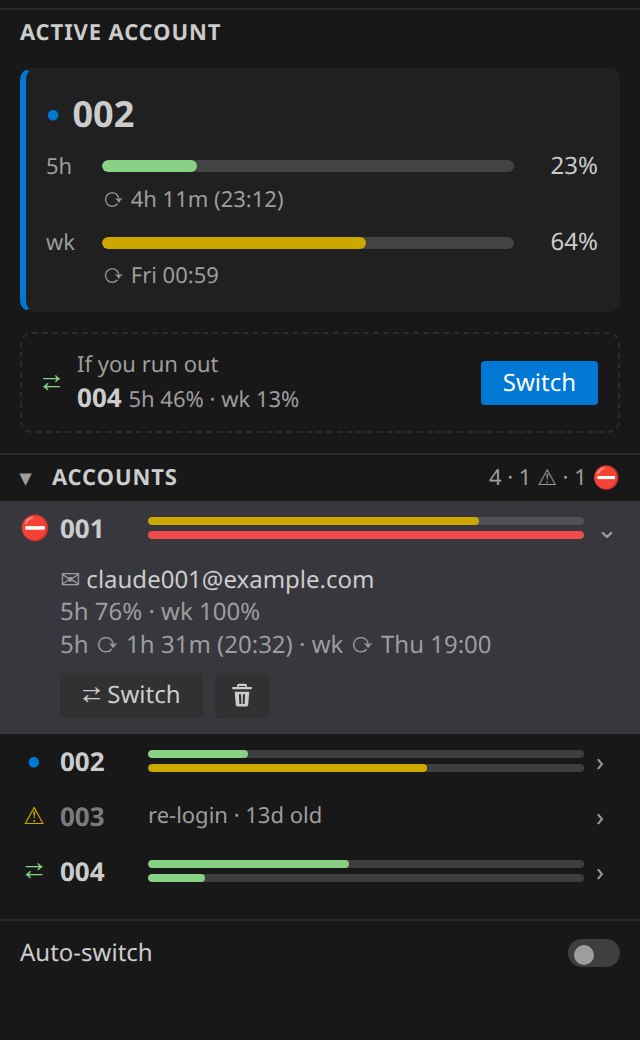
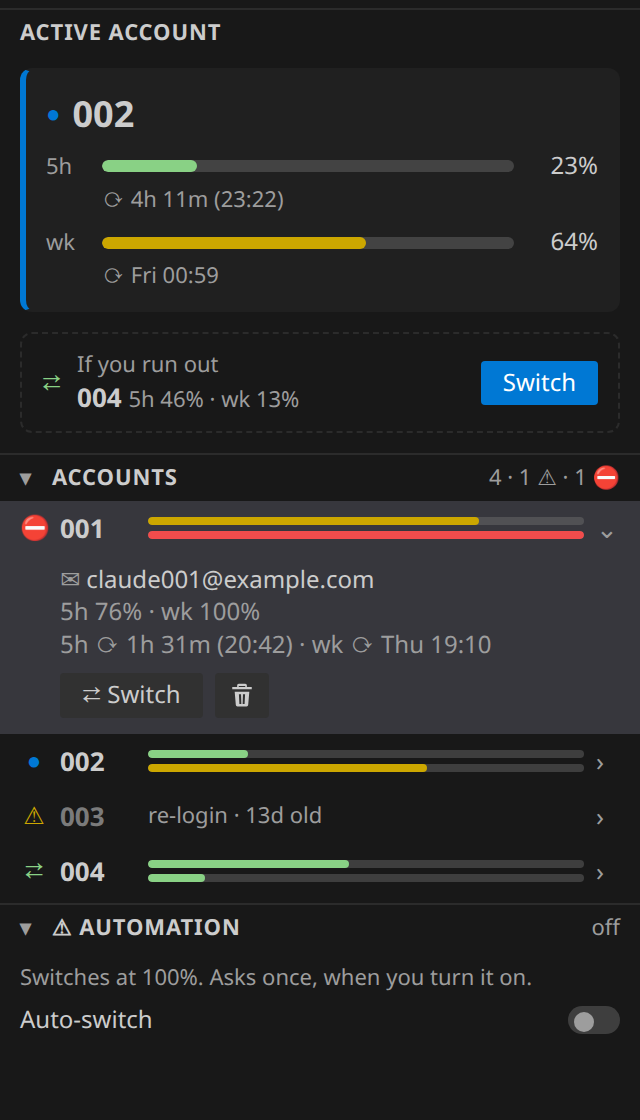
feat(vscode): automation section, safer auto-switch, shorter status bar
Auto-switch moves into a collapsed Automation section with a visible
one-line explanation. Turning it on asks once in a modal that states the
effect (G7); the setting is machine-scoped. The status bar becomes
"● <you> <5h>%/<wk>% · ⇄ <next-best>" and no longer counts stale or dead
accounts as free; its tooltip lists each account with its own data age.
Version 1.2.0, .vsix rebuilt, screenshots re-rendered.

diff --git a/tests/vscode_extension_test.js b/tests/vscode_extension_test.js
@@ -42,22 +42,25 @@ fs.chmodSync(ccswitch, 0o755);
 
 // --- stub vscode ----------------------------------------------------------------------------------
 const said = [];
+const saidOpts = [];
+const updates = [];
 let answer;
 const vscode = {
     window: {
-        showWarningMessage: async (m, o, ...b) => { said.push(m); return answer; },
+        showWarningMessage: async (m, o, ...b) => { said.push(m); saidOpts.push(o); return answer; },
         showInformationMessage: async (m, o, ...b) => { said.push(m); return typeof o === 'object' ? answer : undefined; },
         showErrorMessage: (m) => said.push('ERROR ' + m),
         createTerminal: () => ({ show() {}, sendText(t) { said.push('TERMINAL ' + t); } }),
     },
-    workspace: { getConfiguration: () => ({ get: (k) => cfg[k] }) },
+    workspace: { getConfiguration: () => ({ get: (k) => cfg[k], update: async (k, v, t) => { updates.push([k, v, t]); } }) },
+    ConfigurationTarget: { Global: 1 },
     commands: {}, env: {},
 };
 const orig = Module._load;
 Module._load = function (r, ...a) { return r === 'vscode' ? vscode : orig.call(this, r, ...a); };
 const file = path.join(__dirname, '..', 'vscode', 'extension.js');
 const m = new Module(file); m.filename = file; m.paths = Module._nodeModulePaths(path.dirname(file));
-m._compile(fs.readFileSync(file, 'utf8') + '\n;Object.assign(module.exports, { readSnapshot, isFresh, qualifies, capacity, parseUsageJson, mergeLogins, readAccounts, activeLabel, autoTarget, checkLogins, relogin, switchSeat, saveSeat, esc, webviewHtml, panelData, ageText });', file);
+m._compile(fs.readFileSync(file, 'utf8') + '\n;Object.assign(module.exports, { readSnapshot, isFresh, qualifies, capacity, parseUsageJson, mergeLogins, readAccounts, activeLabel, autoTarget, checkLogins, relogin, switchSeat, saveSeat, esc, webviewHtml, panelData, ageText, setAutoSwitch, AUTO_DETAIL, statusText, statusTooltip });', file);
 const e = m.exports;
 const calls = () => (fs.existsSync(LOG) ? fs.readFileSync(LOG, 'utf8').trim().split('\n') : []);
 
@@ -76,7 +79,7 @@ const calls = () => (fs.existsSync(LOG) ? fs.readFileSync(LOG, 'utf8').trim().sp
         assert.strictEqual(by('work').five_pct, 100);
         assert.strictEqual(by('spare').five_pct, null);
         assert.strictEqual(cap.best.label, 'personal');
-        assert.strictEqual(cap.free, 3);
+        assert.ok(!('free' in cap) && !('total' in cap), 'the free count is gone: it counted stale and dead accounts');
         assert.strictEqual(cap.activeFresh, true);
         assert.strictEqual(e.ageText(by('dead').fetched_at, now), '13d old');
         const pd = e.panelData(accounts, cap, { now, installed: true, auto: false });
@@ -316,7 +319,7 @@ const calls = () => (fs.existsSync(LOG) ? fs.readFileSync(LOG, 'utf8').trim().sp
     const WV = path.join(__dirname, '..', 'vscode', 'webview');
     const readWv = (f) => fs.readFileSync(path.join(WV, f), 'utf8');
     const panel = () => { const ctx = { esc: e.esc }; require('vm').runInNewContext(readWv('panel.js'), ctx); return ctx; };
-    const ui = (over = {}) => ({ accountsOpen: true, openRow: null, ...over });
+    const ui = (over = {}) => ({ accountsOpen: true, automationOpen: false, openRow: null, ...over });
 
     await check('B4 no hard-coded colour in the panel', () => {
         const src = readWv('panel.css') + readWv('panel.js') + e.webviewHtml();
@@ -383,10 +386,122 @@ const calls = () => (fs.existsSync(LOG) ? fs.readFileSync(LOG, 'utf8').trim().sp
         assert.ok(open.includes('data-a="delete" data-l="001"'));
     });
 
-    await check('render: auto-switch toggle row says its state', () => {
+    await check('render: auto-switch toggle says its state', () => {
+        const p = panel(), open = ui({ automationOpen: true });
+        assert.match(p.render(pdFour(), open), /role="switch"[^>]*aria-checked="false"/);
+        assert.match(p.render({ ...pdFour(), auto: true }, open), /role="switch"[^>]*aria-checked="true"/);
+        assert.ok(p.render({ ...pdFour(), auto: true }, ui()).includes('>on<'), 'the collapsed header still shows the state');
+    });
+
+    await check('render: Automation is collapsed by default and holds the toggle and a visible line', () => {
         const p = panel();
-        assert.match(p.render(pdFour(), ui()), /role="switch"[^>]*aria-checked="false"/);
-        assert.match(p.render({ ...pdFour(), auto: true }, ui()), /role="switch"[^>]*aria-checked="true"/);
+        const shut = p.render(pdFour(), ui());
+        assert.ok(!shut.includes('role="switch"'));
+        assert.ok(shut.includes('Automation') && /data-a="automation"[^>]*aria-expanded="false"/.test(shut));
+        const open = p.render(pdFour(), ui({ automationOpen: true }));
+        assert.strictEqual(open.split('role="switch"').length - 1, 1);
+        assert.match(open, /role="switch"[^>]*aria-checked="false"/);
+        assert.ok(open.includes('Switches at 100%.'), 'one visible line, not only a tooltip');
+        assert.ok(!p.render({ ...pdFour(), installed: false }, ui({ automationOpen: true })).includes('role="switch"'), 'no ccswitch, no toggle');
+    });
+
+    // --- G7: turning auto-switch on asks once ----------------------------------------------------------
+    await check('G7 turning auto-switch on asks once, in a modal', async () => {
+        said.length = saidOpts.length = updates.length = 0;
+        answer = undefined;
+        assert.strictEqual(await e.setAutoSwitch(true), false);
+        assert.deepStrictEqual(updates, []);
+        assert.strictEqual(said.length, 1);
+        assert.strictEqual(saidOpts[0].modal, true);
+        assert.strictEqual(said[0], 'Turn on auto-switch?');
+        answer = 'Turn on';
+        assert.strictEqual(await e.setAutoSwitch(true), true);
+        assert.deepStrictEqual(updates, [['autoSwitch', true, 1]]);
+        answer = undefined;
+    });
+
+    await check('G7 turning auto-switch off needs no dialog', async () => {
+        said.length = saidOpts.length = updates.length = 0;
+        assert.strictEqual(await e.setAutoSwitch(false), true);
+        assert.strictEqual(said.length, 0);
+        assert.deepStrictEqual(updates, [['autoSwitch', false, 1]]);
+    });
+
+    await check('G7 the dialog states the effect', () => {
+        for (const re of [/every new Claude Code session/, /without asking/, /100%/, /restart/i, /this machine/]) assert.match(e.AUTO_DETAIL, re);
+    });
+
+    await check('autoSwitch setting is machine-scoped and its description says what it does', () => {
+        const p = require('../vscode/package.json').contributes.configuration.properties['claudeUsage.autoSwitch'];
+        assert.strictEqual(p.scope, 'machine');
+        assert.ok(!('description' in p), 'markdownDescription replaces description');
+        assert.match(p.markdownDescription, /without asking/);
+        assert.match(p.markdownDescription, /100%/);
+    });
+
+    await check('the toggle command and the panel both go through setAutoSwitch', () => {
+        const src = fs.readFileSync(file, 'utf8');
+        assert.ok(!/update\('autoSwitch'/.test(src.replace(/async function setAutoSwitch[\s\S]*?\n}\n/, '')), 'one writer of the setting');
+    });
+
+    // --- status bar text ---------------------------------------------------------------------------------
+    const sb = (a, you, relogin = [], over = {}) => ({ ...capOf(a, you, relogin), ...over });
+    const sbAcc = () => [acct('work', 100, 40, now - 60), acct('personal', 10, 5, now - 30)];
+
+    await check('statusText: active and next-best', () => {
+        const a = sbAcc();
+        assert.strictEqual(e.statusText(sb(a, 'work'), a, false), '● work 100%/40% · ⇄ personal');
+    });
+
+    await check('statusText: nothing qualifies (Review Focus 1)', () => {
+        const a = [acct('work', 100, 40, now - 60), acct('old', 5, 5, now - 7200), acct('dead', 5, 5, now - 60)];
+        const t = e.statusText(sb(a, 'work', ['dead']), a, false);
+        assert.ok(t.endsWith('· ⇄ none'), t);
+        assert.ok(!/free/.test(t), 'stale and dead accounts are not counted as free');
+    });
+
+    await check('statusText: stale active data and auto on', () => {
+        const a = [acct('work', 100, 40, now - 7200), acct('personal', 10, 5, now - 30)];
+        const t = e.statusText(sb(a, 'work'), a, true);
+        assert.ok(t.startsWith('$(sync) ● work'), t);
+        assert.ok(t.includes('100%/40% ◷'), t);
+    });
+
+    await check('statusText: no active account, and a missing window', () => {
+        const a = sbAcc();
+        assert.strictEqual(e.statusText(sb(a, null), a, false), '● none');
+        assert.strictEqual(e.statusText(sb(a, null), a, true), '$(sync) ● none');
+        const h = [acct('half', null, 30, now - 60)];
+        assert.strictEqual(e.statusText(sb(h, 'half'), h, false), '● half –/30% · ⇄ none');
+    });
+
+    await check('statusText: an active account with no data at all', () => {
+        const a = sbAcc();
+        const t = e.statusText(sb(a, 'ghost'), a, false);  // not saved, no row
+        assert.strictEqual(t, '● ghost –/– ◷ · ⇄ personal');
+    });
+
+    await check('statusTooltip lists every account', () => {
+        const a = [...sbAcc(), acct('old', 5, 5, now - 7200), acct('dead', 5, 5, now - 13 * 86400)];
+        const tip = e.statusTooltip(sb(a, 'work', ['dead']), a, false);
+        const lines = tip.split('\n');
+        assert.strictEqual(lines.length, a.length + 1);
+        assert.strictEqual(lines[0], 'Auto-switch: off');
+        assert.strictEqual(lines[1], 'work: 5h 100%, wk 40% · active');
+        assert.strictEqual(lines[2], 'personal: 5h 10%, wk 5%');
+        assert.strictEqual(lines[3], 'old: 5h 5%, wk 5% · data 2h old');
+        assert.strictEqual(lines[4], 'dead: 5h 5%, wk 5% · re-login · data 13d old');
+        assert.strictEqual(e.statusTooltip(sb(a, 'work'), a, true).split('\n')[0], 'Auto-switch: ON');
+    });
+
+    await check('statusTooltip says the truth about the active account\'s data (fresh, stale, none)', () => {
+        const a = [acct('work', 100, 40, now - 60), acct('old', 5, 5, now - 7200)];
+        assert.strictEqual(e.statusTooltip(sb(a, 'work'), a, false).split('\n')[1], 'work: 5h 100%, wk 40% · active', 'fresh active: no age claim');
+        assert.ok(e.statusTooltip(sb(a, 'old'), a, false).includes('old: 5h 5%, wk 5% · data 2h old · active'));
+        const ghost = e.statusTooltip(sb(a, 'ghost'), a, false);  // active, unsaved, in no list
+        assert.strictEqual(ghost.split('\n').length, a.length + 2);
+        assert.ok(ghost.includes('ghost: 5h –, wk – · no data · active'), ghost);
+        assert.ok(!/over 30 min/.test(fs.readFileSync(file, 'utf8')), 'the old unconditional claim is gone');
     });
 
     await check('the vendored popup is gone', () => {

diff --git a/vscode/extension.js b/vscode/extension.js
@@ -70,12 +70,12 @@ function resetText(epoch) {
     return `⟳ ${DAYS[d.getDay()]} ${clock}`;
 }
 
-// Load = max(5h, weekly) (the CtrlA hub's rules); free = load < 50%; best = lowest load among qualifying accounts.
+// Load = max(5h, weekly) (the CtrlA hub's rules); best = lowest load among qualifying accounts.
 function capacity(u, ctx) {
     const seats = u.accounts.filter((a) => (a.provider || 'claude') === 'claude' && (a.five_pct != null || a.week_pct != null));
     const best = seats.filter((a) => qualifies(a, ctx)).sort((x, y) => loadOf(x) - loadOf(y))[0];
     const fresh = Object.fromEntries(seats.map((a) => [a.label, isFresh(a, ctx.now)]));
-    return { you: ctx.you, free: seats.filter((a) => loadOf(a) < 50).length, total: seats.length,
+    return { you: ctx.you,
         best: best ? { label: best.label, five: best.five_pct, week: best.week_pct } : null,
         loads: Object.fromEntries(seats.map((a) => [a.label, loadOf(a)])), fresh,
         activeFresh: !!ctx.you && fresh[ctx.you] === true };
@@ -86,6 +86,28 @@ function capacity(u, ctx) {
 function autoTarget(cap) {
     if (!cap.you || !cap.activeFresh || !(cap.loads[cap.you] >= 100) || !cap.best) return null;
     return cap.best.label;
+}
+
+// Status bar: `● <you> <5h>%/<wk>% · ⇄ <next-best>`. ◷ marks data that is not fresh; $(sync) marks auto-switch on.
+// Only the best qualifying account is named, so a stale or dead account is never counted as available.
+const pctOr = (v) => (v == null ? '–' : Math.round(v) + '%');
+function statusText(cap, accounts, auto) {
+    const lead = auto ? '$(sync) ' : '';
+    if (!cap.you) return lead + '● none';
+    const me = accounts.find((a) => a.label === cap.you) || {};
+    return `${lead}● ${cap.you} ${pctOr(me.five_pct)}/${pctOr(me.week_pct)}${cap.activeFresh ? '' : ' ◷'} · ⇄ ${cap.best ? cap.best.label : 'none'}`;
+}
+
+// Tooltip: the auto-switch state, then one line per account (an active account with no row gets one too).
+function statusTooltip(cap, accounts, auto, now = Date.now() / 1000) {
+    const list = cap.you && !accounts.some((a) => a.label === cap.you) ? [...accounts, { label: cap.you, fetched_at: null, state: 'no data yet' }] : accounts;
+    const dead = new Set(cap.relogin || []);
+    const lines = list.map((a) => {
+        const age = isFresh(a, now) ? null : ageText(a.fetched_at, now);
+        return `${a.label}: 5h ${pctOr(a.five_pct)}, wk ${pctOr(a.week_pct)}` + (dead.has(a.label) ? ' · re-login' : '')
+            + (age === 'no data' ? ' · no data' : age ? ` · data ${age}` : !isFresh(a, now) ? ` · ${a.state}` : '') + (a.label === cap.you ? ' · active' : '');
+    });
+    return [`Auto-switch: ${auto ? 'ON' : 'off'}`, ...lines].join('\n');
 }
 
 // Data age as shown on a row: null while fresh by time, 'no data' when there never was any, else '45m old' / '5h old' / '13d old'.
@@ -141,6 +163,19 @@ function panelData(accounts, cap, { now, installed, auto }) {
         counts: { total: rows.length, relogin: rows.filter((r) => r.icon === 'relogin').length, full: rows.filter((r) => r.icon === 'full').length },
         rows,
     };
+}
+
+// Turning auto-switch ON switches accounts with nobody watching, so it asks once, in a modal. OFF needs no dialog.
+// Returns true when the setting changed.
+const AUTO_DETAIL = 'Auto-switch changes the Claude Code account for every new Claude Code session on this machine, without asking, '
+    + 'when the active account reaches 100% (5h or weekly). Open Claude Code tabs keep the old account until you restart them.';
+async function setAutoSwitch(on) {
+    if (on) {
+        const ok = await vscode.window.showWarningMessage('Turn on auto-switch?', { modal: true, detail: AUTO_DETAIL }, 'Turn on');
+        if (ok !== 'Turn on') return false;
+    }
+    await vscode.workspace.getConfiguration('claudeUsage').update('autoSwitch', on, vscode.ConfigurationTarget.Global);
+    return true;
 }
 
 // input = what to type at ccswitch's own [y/N] prompts; we always ask in VS Code first.
@@ -295,17 +330,14 @@ function activate(context) {
         if (!r.ok) { vscode.window.showErrorMessage(`Auto-switch to ${to} failed: ` + r.msg); return; }
         poll();
         const next = await vscode.window.showWarningMessage(`Auto-switched Claude Code: ${from} is full, now on ${to} (most headroom). Restart open Claude Code tabs to use it.`, 'Turn auto-switch off');
-        if (next === 'Turn auto-switch off') vscode.workspace.getConfiguration('claudeUsage').update('autoSwitch', false, vscode.ConfigurationTarget.Global);
+        if (next === 'Turn auto-switch off') setAutoSwitch(false);
     };
-    const toggleAuto = () => vscode.workspace.getConfiguration('claudeUsage').update('autoSwitch', !autoOn(), vscode.ConfigurationTarget.Global);
+    const toggleAuto = () => setAutoSwitch(!autoOn());
 
     const poll = () => {
         try { ({ accounts, cap } = readAccounts()); cap.auto = autoOn(); } catch (err) { status.text = '$(warning) Claude usage unreadable'; status.tooltip = String(err); return; }
-        const r = (v) => (v == null ? '–' : Math.round(v) + '%');
-        status.text = (cap.you && !cap.activeFresh ? '$(warning) ' : '$(pulse) ') + (cap.auto ? '$(sync) ' : '') + (cap.you ? `current ${cap.you} · ` : '') + `${cap.free}/${cap.total} free`
-            + (cap.best ? ` · most headroom ${cap.best.label} (${r(cap.best.five)}/${r(cap.best.week)})` : '');
-        status.tooltip = (cap.you && !cap.activeFresh ? `Data for ${cap.you} is over 30 min old\n` : '') + `Auto-switch: ${cap.auto ? 'ON' : 'off'}\n` + 'Accounts (5h / weekly)\n'
-            + accounts.map((a) => `${a.email || a.label}: session ${r(a.five_pct)}, weekly ${r(a.week_pct)}`).join('\n');
+        status.text = statusText(cap, accounts, cap.auto);
+        status.tooltip = statusTooltip(cap, accounts, cap.auto);
         push();
         autoSwitch();
     };

diff --git a/vscode/webview/panel.js b/vscode/webview/panel.js
@@ -65,6 +65,17 @@ function row(r, open) {
     return html;
 }
 
+// Collapsed by default: the one switch that acts without you watching. The line stays visible when open so touch and
+// keyboard users can read it (the tooltip is not reachable for them).
+function automation(d, ui) {
+    const open = ui.automationOpen === true;
+    return '<div class="sec tog" data-a="automation" role="button" tabindex="0" aria-expanded="' + open + '">'
+        + '<span class="chev">' + (open ? '▾' : '▸') + '</span>⚠ Automation<span class="n">' + (d.auto ? 'on' : 'off') + '</span></div>'
+        + (open ? '<div class="auto"><div class="lbl">Switches at 100%. Asks once, when you turn it on.</div><div class="tgrow"><span>Auto-switch</span>'
+            + '<button class="tg' + (d.auto ? ' on' : '') + '" data-a="auto" role="switch" aria-checked="' + !!d.auto + '" aria-label="Auto-switch"'
+            + ' title="When the active account reaches 100%, switch to the next-best account (fresh data, working login, at most once per 10 min), without asking. Restart open Claude Code tabs to use it."></button></div></div>' : '');
+}
+
 function render(d, ui) {
     const open = ui.accountsOpen !== false;
     const health = d.loginHealth === 'unknown' ? ' title="ccswitch could not check logins, so none is marked re-login"' : '';
@@ -72,15 +83,12 @@ function render(d, ui) {
         + '<div class="sec tog" data-a="accounts" role="button" tabindex="0" aria-expanded="' + open + '"' + health + '>'
         + '<span class="chev">' + (open ? '▾' : '▸') + '</span>Accounts<span class="n">' + countsText(d.counts) + '</span></div>'
         + (open ? '<div class="rows">' + d.rows.map((r) => row(r, r.label === ui.openRow)).join('') + '</div>' : '')
-        + (d.installed
-            ? '<div class="auto"><span>Auto-switch</span><button class="tg' + (d.auto ? ' on' : '') + '" data-a="auto" role="switch" aria-checked="' + !!d.auto
-                + '" title="When the active account reaches 100%, switch to the next-best account (fresh data, working login, at most once per 10 min). Restart open Claude Code tabs to use it."></button></div>'
-            : '');
+        + (d.installed ? automation(d, ui) : '');
 }
 
 if (typeof acquireVsCodeApi === 'function') {
     const vsc = acquireVsCodeApi();
-    const ui = Object.assign({ accountsOpen: true, openRow: null }, vsc.getState() || {});
+    const ui = Object.assign({ accountsOpen: true, automationOpen: false, openRow: null }, vsc.getState() || {});
     const root = document.getElementById('root');
     let data = null;
     const paint = () => {
@@ -95,6 +103,7 @@ if (typeof acquireVsCodeApi === 'function') {
     const act = (el) => {
         const a = el.dataset.a, l = el.dataset.l;
         if (a === 'accounts') ui.accountsOpen = !ui.accountsOpen;
+        else if (a === 'automation') ui.automationOpen = !ui.automationOpen;
         else if (a === 'row') ui.openRow = ui.openRow === l ? null : l;
         else if (a === 'switch' || a === 'relogin') return vsc.postMessage({ seat: l });  // switchSeat routes re-login to enrol
         else if (a === 'save') return vsc.postMessage({ save: l });

diff --git a/vscode/webview/panel.css b/vscode/webview/panel.css
@@ -77,10 +77,8 @@ button { font: inherit; cursor: pointer; }
 .acts { margin-top: 6px; display: flex; gap: 6px; flex-wrap: wrap; }
 .acts .btn { margin-left: 0; }
 
-.auto {
-    display: flex; align-items: center; gap: 8px; margin-top: 10px; padding: 8px 10px 0; font-size: 12px;
-    border-top: 1px solid var(--vscode-sideBarSectionHeader-border, transparent);
-}
+.auto { padding: 6px 10px 0; font-size: 12px; }
+.tgrow { display: flex; align-items: center; gap: 8px; margin-top: 6px; }
 .tg {
     margin-left: auto; position: relative; width: 26px; height: 14px; padding: 0; border-radius: 7px;
     border: 1px solid var(--vscode-contrastBorder, transparent);

diff --git a/README.md b/README.md
@@ -293,10 +293,13 @@ on the remote host, next to `ccswitch`):
 ```
 
 then **Developer: Reload Window**. It adds a sidebar icon and a status-bar item
-(`current work · 1/3 free · most headroom personal (10%/5%)`).
+(`● work 100%/40% · ⇄ personal`: the active account, its 5h/weekly usage and the
+next-best account, or `⇄ none`; `◷` after the numbers means its data is over 30
+minutes old; `$(sync)` in front means auto-switch is on). The tooltip lists every
+account with its data age and re-login state.
 
 <p>
-<img src="vscode/screenshot-dark.png" width="320" alt="VS Code sidebar in Dark Modern: the Active account card for 002 with 5h and weekly bars and reset times, an If you run out line offering 004 with a Switch button, the Accounts list with counts 4 · 1 ⚠ · 1 ⛔ and the details of 001 open, and the Auto-switch toggle">
+<img src="vscode/screenshot-dark.png" width="320" alt="VS Code sidebar in Dark Modern: the Active account card for 002 with 5h and weekly bars and reset times, an If you run out line offering 004 with a Switch button, the Accounts list with counts 4 · 1 ⚠ · 1 ⛔ and the details of 001 open, and the Automation section with the Auto-switch toggle">
 <img src="vscode/screenshot-light.png" width="320" alt="The same sidebar in Light Modern, with the details of the re-login account 003 open">
 </p>
 
@@ -320,10 +323,14 @@ bottom:
   actions: **Switch**, **Re-login help**, delete (trash icon, `ccswitch
   delete`), and **Save login** on the active account when it is not saved yet
   (`ccswitch save` only ever snapshots the active login). Actions confirm first.
-- **Auto-switch** (off by default) — when the active account reaches 100% (5h
-  or weekly), switch to the account in **If you run out**. Never when the
-  active account's own data is over 30 minutes old; at most once every 10
-  minutes. The toggle's tooltip says this.
+- **Automation** — collapsed by default. **Auto-switch** (off by default): when
+  the active account reaches 100% (5h or weekly), switch to the account in **If
+  you run out**, without asking. Turning it on opens one confirmation dialog that
+  says so; turning it off needs none. It applies to every new Claude Code session
+  on this machine (the setting is machine-scoped, so Settings Sync never carries
+  it to another machine). Open Claude Code tabs keep the old account until
+  restarted. Never when the active account's own data is over 30 minutes old; at
+  most once every 10 minutes.
 
 | Icon | Meaning |
 |------|---------|
